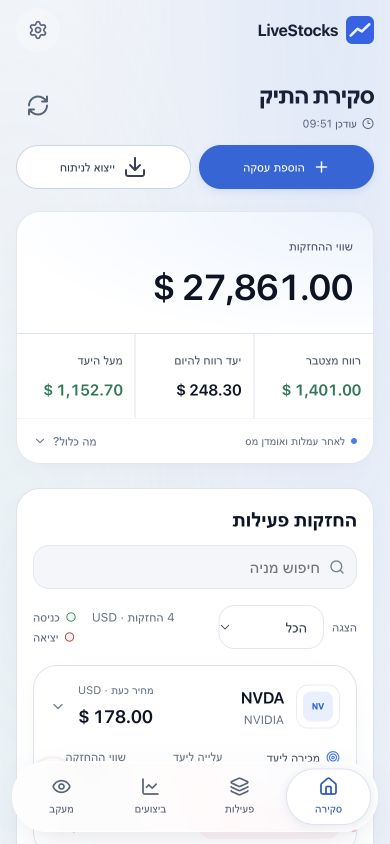
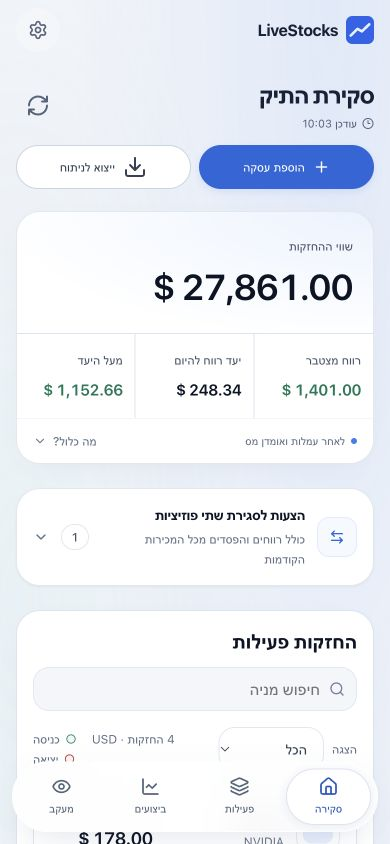
fix(overview): show exit ideas above active holdings

diff --git a/__tests__/overview-page-layout.test.tsx b/__tests__/overview-page-layout.test.tsx
@@ -15,13 +15,13 @@ vi.mock('@/components/portfolio/research-export-button', () => ({ResearchExportB
 vi.mock('@/components/charts/performance-chart', () => ({PerformanceChart: () => <section aria-label="Performance chart">Performance chart</section>}));
 
 describe('overview layout', () => {
-  it('places holdings immediately after the summary and keeps the performance chart off the overview', () => {
+  it('places exit ideas above active holdings immediately after the summary and keeps the performance chart off the overview', () => {
     render(<HomePage />);
     const summary = screen.getByRole('region', {name: 'Portfolio summary'});
     const ideas = screen.getByRole('region', {name: 'Test exit ideas'});
     const holdings = screen.getByRole('region', {name: 'Test holdings'});
-    expect(summary.nextElementSibling).toBe(holdings);
-    expect(holdings.nextElementSibling).toBe(ideas);
+    expect(summary.nextElementSibling).toBe(ideas);
+    expect(ideas.nextElementSibling).toBe(holdings);
     expect(screen.getAllByText('Holdings value')[0].closest('.overview-stat')).toHaveClass('overview-stat-primary');
     expect(screen.queryByRole('region', {name: 'Performance chart'})).not.toBeInTheDocument();
     expect(screen.getByRole('heading', {name: 'Portfolio overview', level: 1})).toBeInTheDocument();

diff --git a/app/page.tsx b/app/page.tsx
@@ -58,8 +58,8 @@ export default function HomePage() {
                 </div>
             </details>
           </section>
-          <OverviewHoldings metrics={metrics} sparklineData={sparklineData} contextSparklineData={contextSparklineData} positions={positions} />
           <ClosePairProposals metrics={metrics} positions={positions} sparklineData={sparklineData} />
+          <OverviewHoldings metrics={metrics} sparklineData={sparklineData} contextSparklineData={contextSparklineData} positions={positions} />
         </>}
       </DashboardMain>
     </DashboardContainer>

diff --git a/README.md b/README.md
@@ -26,7 +26,7 @@
 אימות העיצוב כולל עברית RTL ואנגלית LTR, מסכי מחשב ומובייל ברוחב 320/390/430 פיקסלים, הרחבת החזקות, מעבר למניה וחזרה, סינון, לשוניות ביצועים, שמירת ערכה והפחתת שקיפות. גיליון העסקה נבדק גם ב־320×520 כדי לדמות שטח פנוי מצומצם בזמן הקלדה. אלה בדיקות בדפדפן; לא בוצעה בדיקה על iPhone פיזי.
 
 ## מה הפרויקט כולל
-- סקירה עם שווי ההחזקות כמדד ראשי, רווח/הפסד מצטבר, יעד תשואה אישי ופער מהיעד; ההחזקות מופיעות לפני ההצעות לסגירת זוגות. גרף הביצועים המלא נמצא במסך הביצועים, ולכל מניה גרף מחיר קטן, שינוי יומי ותשואה מאז הקנייה
+- סקירה עם שווי ההחזקות כמדד ראשי, רווח/הפסד מצטבר, יעד תשואה אישי ופער מהיעד; ההצעות לסגירת זוגות מופיעות מעל ההחזקות הפעילות. גרף הביצועים המלא נמצא במסך הביצועים, ולכל מניה גרף מחיר קטן, שינוי יומי ותשואה מאז הקנייה
 - פעילות: ניהול פוזיציות, עסקאות BUY/SELL, lots, עמלות ומיקום תיק
 - ביצועים: היסטוריה, השוואה ליעד אישי ורווח ממומש באותו מסך
 - Watchlist עם קבוצות, כרטיסי מניות, היסטוריית מחירים וגרירה למיון
